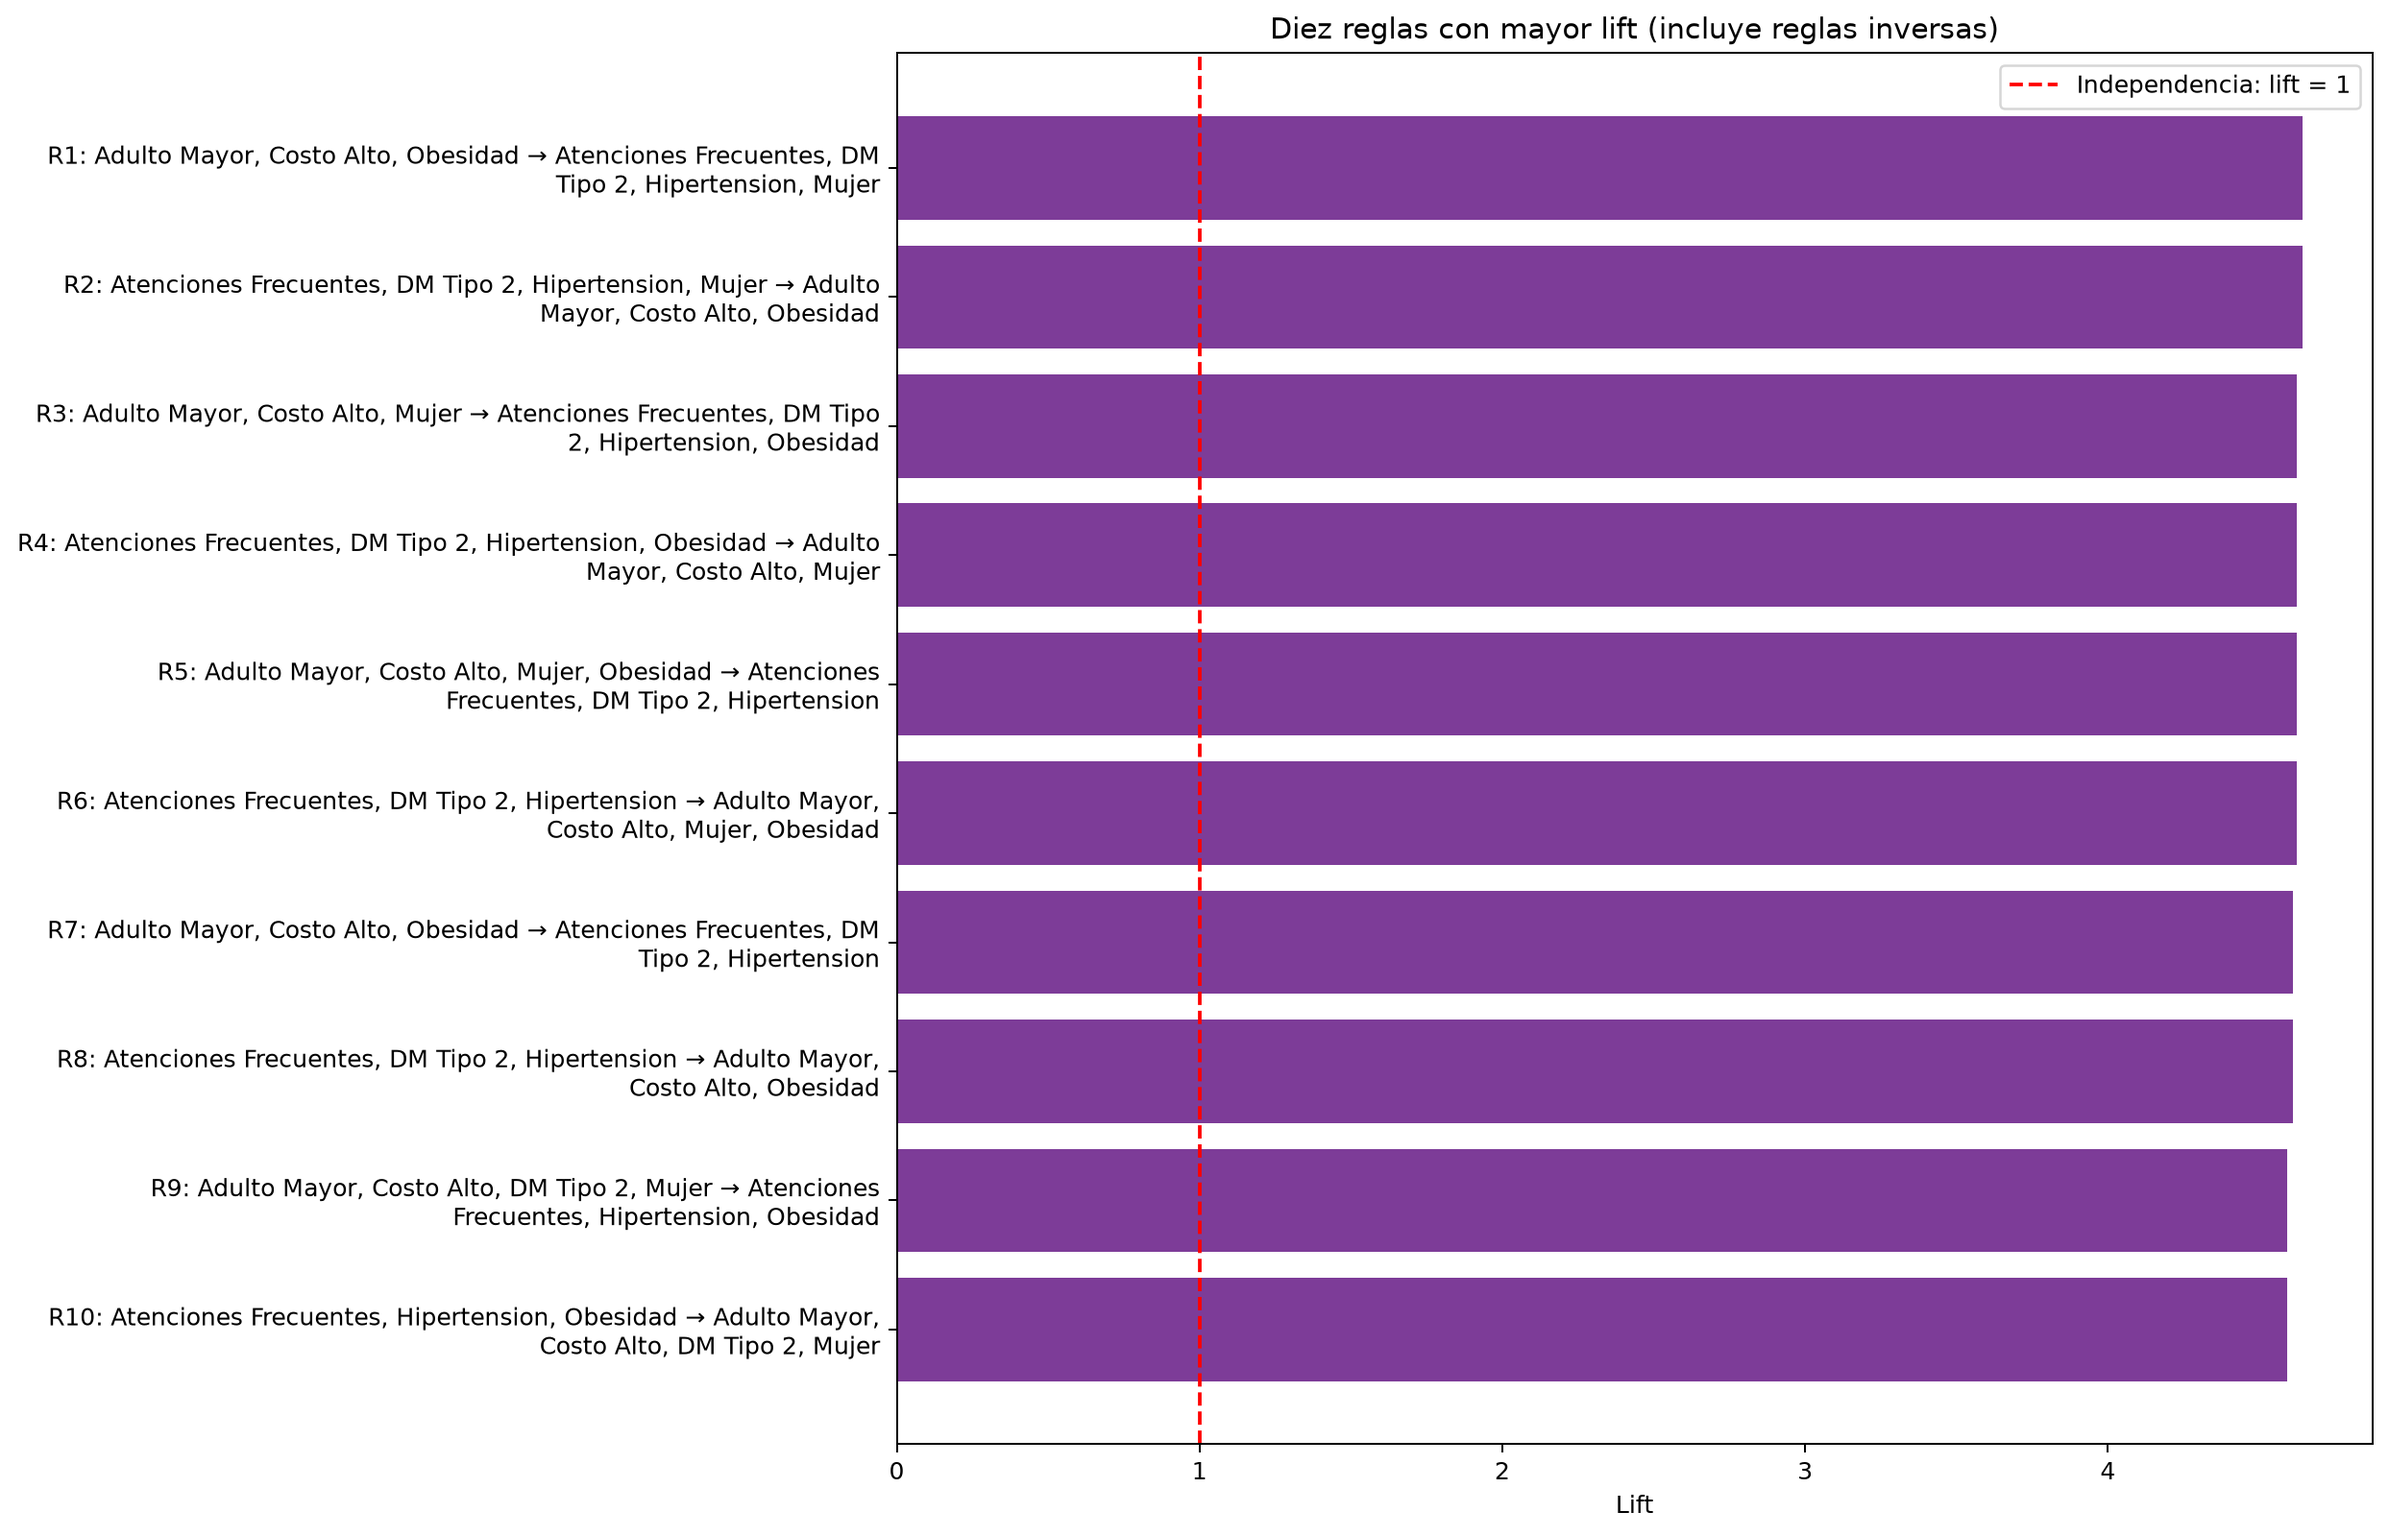
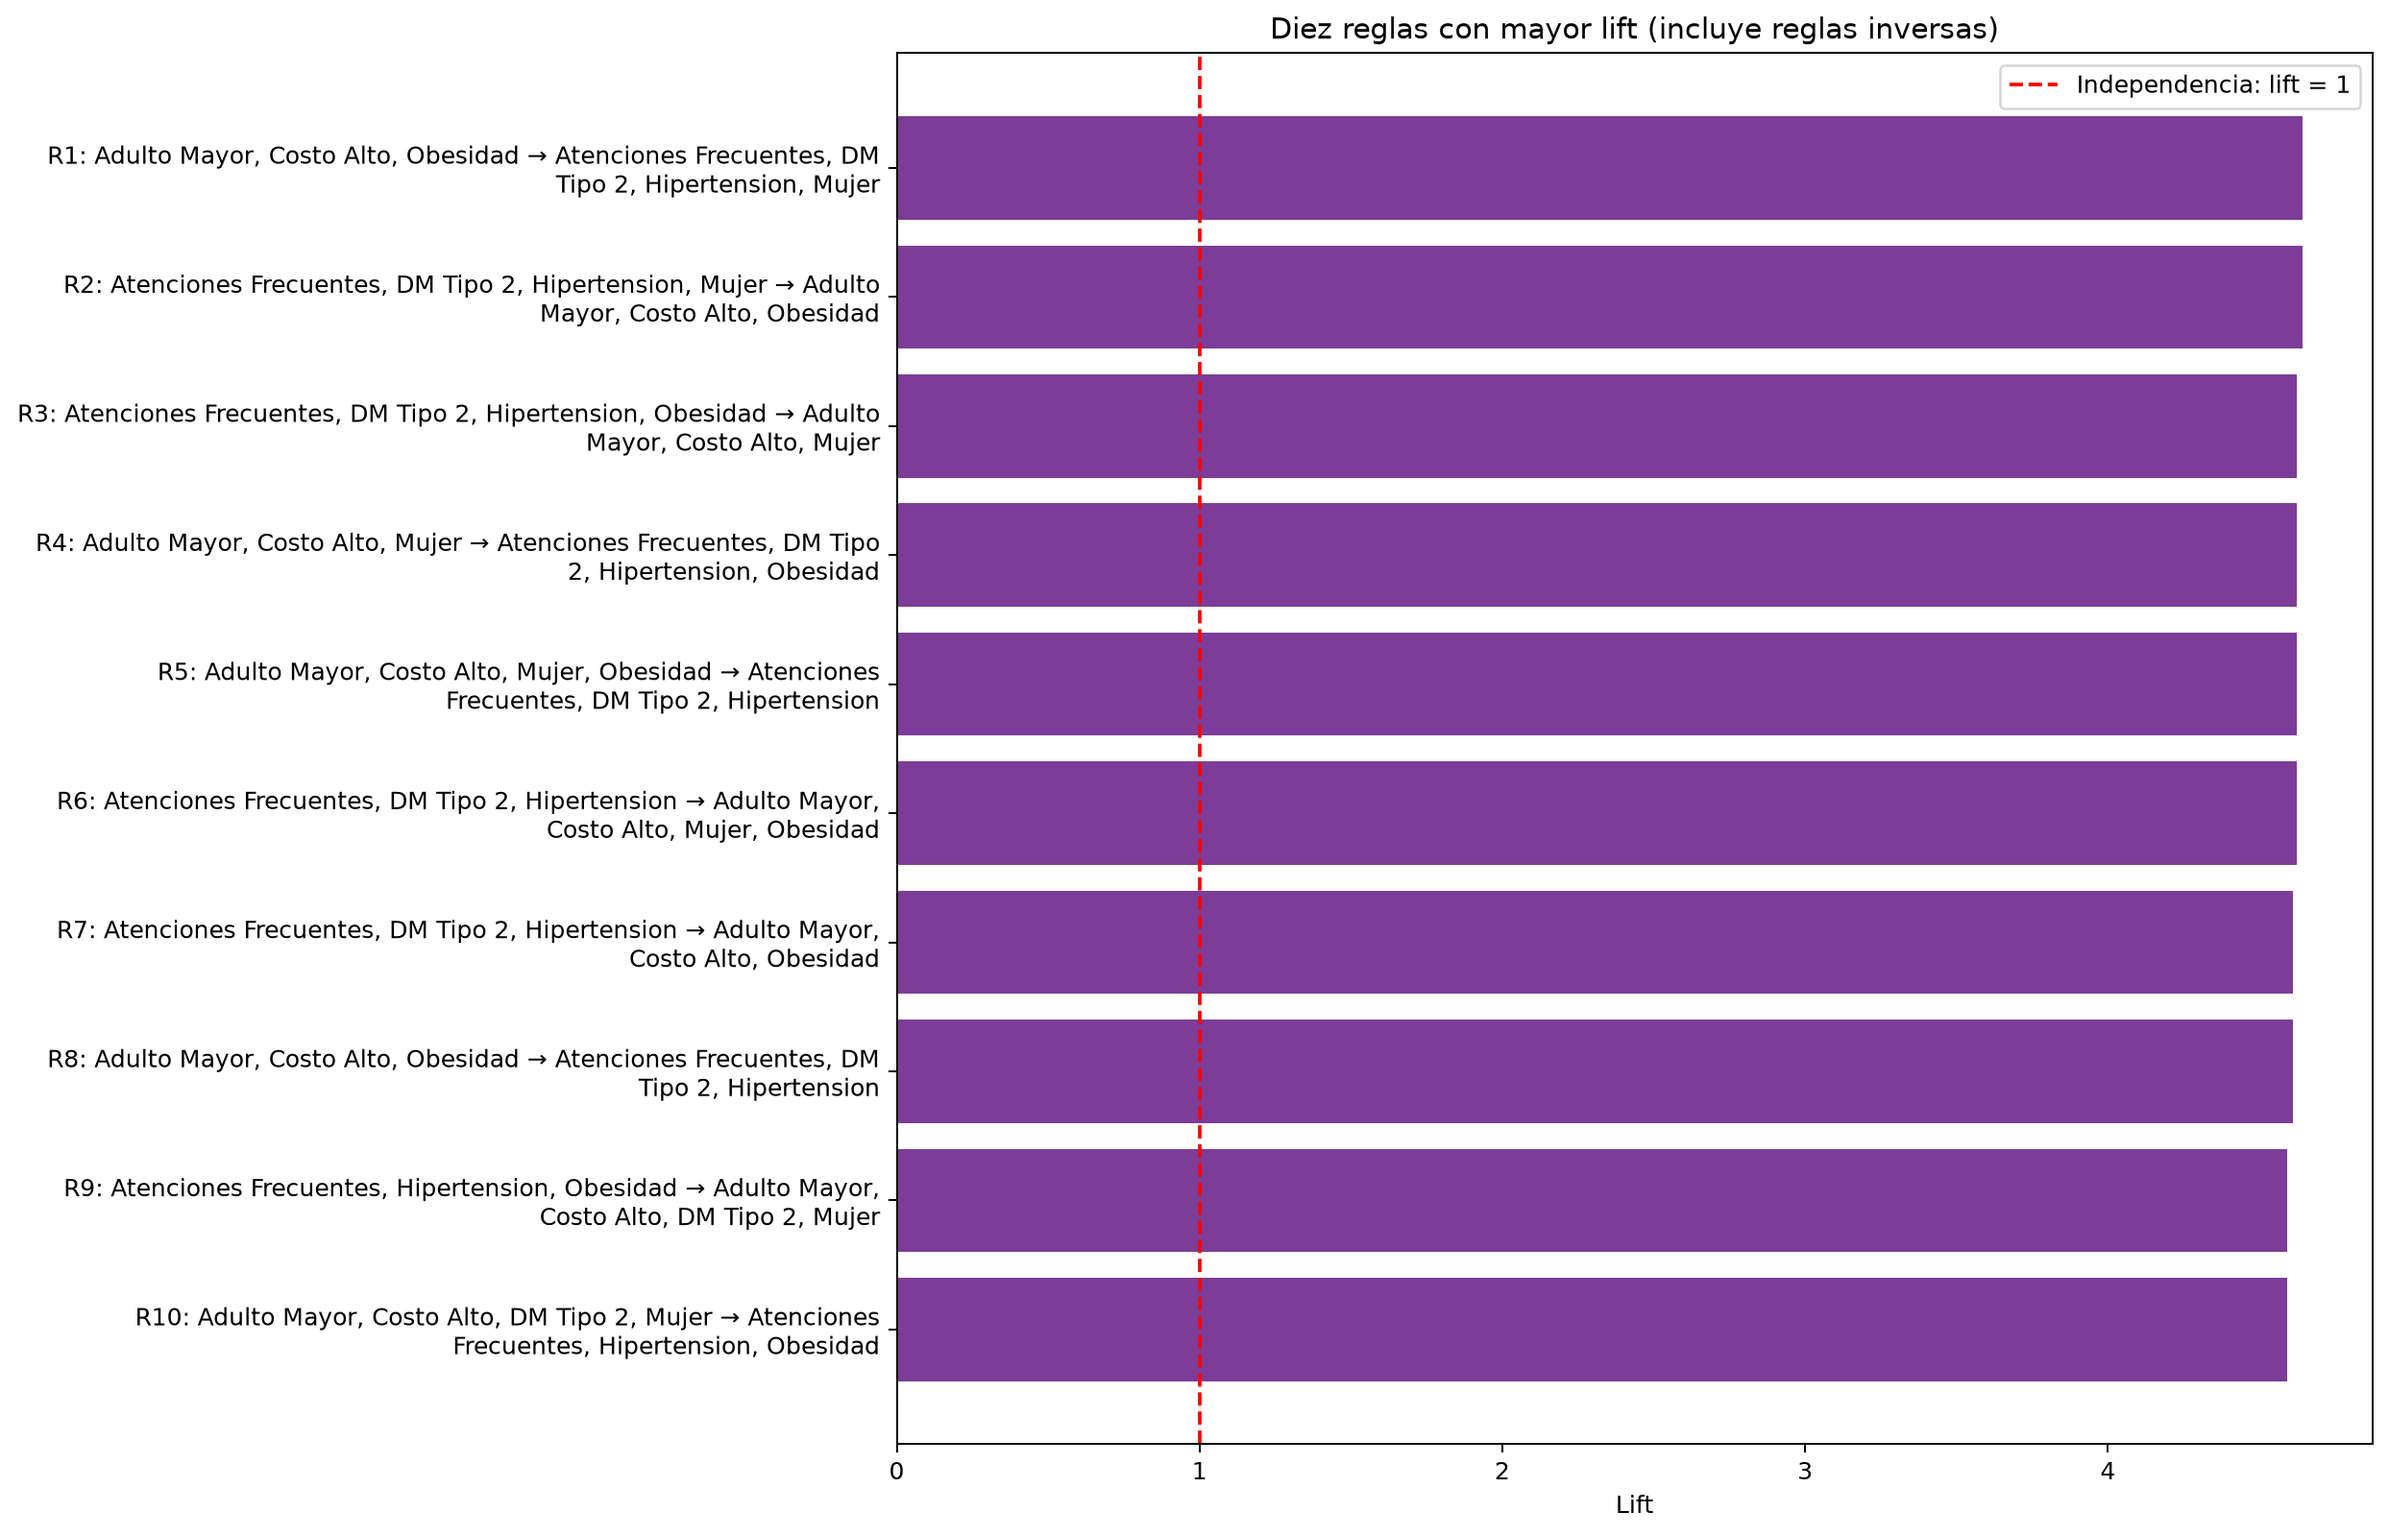
Comparte resumenes CSV y restaura ventanas de graficos

diff --git a/informe_mineria_datos.html b/informe_mineria_datos.html
@@ -225,6 +225,10 @@
 <p>Al excluir días de hospitalización y cantidad de atenciones, el R² baja a <strong>0.0178</strong> y el RMSE sube a <strong>124.14 soles</strong>. Esta configuración explica poco del gasto con los predictores disponibles antes de la atención; no demuestra que las comorbilidades carezcan de efecto clínico. Base, enriquecido y Ridge presentan resultados prácticamente iguales. La información INEI no aporta una mejora medible en esta comparación individual.</p>
 <p>El modelo logarítmico reconvertido obtiene R² = <strong>-8.1585</strong> y RMSE = <strong>379.08 soles</strong>. Su R² negativo indica que su error cuadrático supera el de predecir la media del conjunto evaluado; esta transformación no mejora los resultados en la escala monetaria. Los gráficos de predicciones, residuos y coeficientes se generan adicionalmente al ejecutar el pipeline completo, usando las predicciones reales, sin reconstruirlas a partir de métricas agregadas.</p>
 <!-- FIN ADICION REGRESION -->
+    <h3>8.2. Predicciones, residuos y coeficientes del modelo enriquecido</h3>
+    <figure><img src="salidas/regresion_predicciones_residuos.png" alt="Costos reales frente a predichos y residuos del modelo enriquecido" style="max-width:100%;height:auto;"><figcaption>Predicciones y residuos de hasta 5.000 casos seleccionados del conjunto de prueba. La diagonal representa predicción perfecta y la línea horizontal representa residuo cero.</figcaption></figure>
+    <figure><img src="salidas/regresion_coeficientes.png" alt="Diez coeficientes de mayor magnitud del modelo enriquecido" style="max-width:100%;height:auto;"><figcaption>Coeficientes estandarizados: asociación con el costo por una desviación estándar de cada predictor, manteniendo los demás constantes; no representan efectos causales.</figcaption></figure>
+
     <!-- 9. Acciones Inferidas en Base a los Resultados -->
     <h2 id="seccion9">9. Acciones Inferidas en Base a los Resultados</h2>
     <p>A partir del análisis holístico, se proponen las siguientes acciones o toma de decisiones:</p>

diff --git a/completo.py b/completo.py
@@ -32,11 +32,13 @@ from sklearn.pipeline import Pipeline
 from sklearn.metrics import mean_squared_error, r2_score, mean_absolute_error
 from mlxtend.frequent_patterns import apriori, association_rules
 from graficos_adicionales import graficar_regresion, graficar_asociacion
+import graficos_adicionales
 
 # Configuración global
 warnings.filterwarnings('ignore')
 RANDOM_STATE = 42
 MODO_PANTALLAZOS = True  # Cambiar a False si se desea ejecutar sin pausas interactivas
+graficos_adicionales.MOSTRAR_GRAFICOS = MODO_PANTALLAZOS
 N_MUESTRA_INICIAL = 650000  # Muestra inicial para garantizar >= 500.000 tras dedup y limpieza
 
 

diff --git a/graficos_adicionales.py b/graficos_adicionales.py
@@ -7,17 +7,18 @@ import ast
 import textwrap
 import numpy as np
 import pandas as pd
-import matplotlib
-matplotlib.use('Agg')
 import matplotlib.pyplot as plt
 
 SALIDAS = Path(__file__).resolve().parent / 'salidas'
+MOSTRAR_GRAFICOS = False
 
 
 def guardar(fig, nombre):
     SALIDAS.mkdir(exist_ok=True)
     fig.tight_layout()
     fig.savefig(SALIDAS / nombre, dpi=180, bbox_inches='tight')
+    if MOSTRAR_GRAFICOS:
+        plt.show()
     plt.close(fig)
 
 

diff --git a/readme.md b/readme.md
@@ -186,4 +186,49 @@ flowchart LR
 
 ## 👤 Autor
 
+## Resultados compartidos y ejecución en macOS
+
+Los cambios están en la rama `main`. Para actualizar una copia existente sin descartar cambios locales:
+
+```bash
+git fetch origin
+git switch main
+git pull --ff-only origin main
+```
+
+Si Git indica que hay cambios locales incompatibles, conservarlos antes de actualizar.
+Los cuatro CSV pequeños de `salidas/` se incluyen como excepción a la exclusión de datasets:
+`comparativa_modelos_regresion.csv`, `reglas_asociacion_top_lift.csv`,
+`estadisticos_descriptivos.csv` y `resumen_inferencia_acciones.csv`.
+La comparación contiene cinco filas de métricas de modelos, no registros de pacientes.
+`VALOR_NETO` es la variable de costo utilizada como objetivo; sus estadísticos agregados
+aparecen en `estadisticos_descriptivos.csv`.
+
+La ejecución documentada selecciona 650.000 registros y conserva 570.437 tras la limpieza.
+Estos registros procesados permanecen en memoria: el script no exporta el dataset limpio.
+El CSV maestro debe obtenerse por separado y permanecer en la carpeta del proyecto;
+los datasets grandes siguen excluidos de Git. Los CSV de resumen y las imágenes
+permiten consultar los resultados sin volver a procesar el maestro.
+
+En macOS, con el entorno virtual de cada equipo activado:
+
+```bash
+source .venv/bin/activate
+python completo.py
+```
+
+Con `MODO_PANTALLAZOS = True`, los gráficos se guardan y se abren mediante el backend
+gráfico disponible de Matplotlib. Cerrar cada ventana permite continuar y las pausas
+de consola requieren Enter. Una sesión sin interfaz gráfica solo podrá guardar imágenes.
+Para regenerar los cinco gráficos de resumen desde los CSV existentes:
+
+```bash
+python graficos_adicionales.py
+```
+
+Este último comando solo guarda archivos PNG; abrir `informe_mineria_datos.html` para verlos.
+Las novedades del informe están en 7.1, 8.1 y en la interpretación complementaria de la sección 10.
+Los diagnósticos de regresión (predicciones, residuos y coeficientes) se generan al ejecutar
+`completo.py` y están disponibles como PNG en `salidas/`.
+
 Desarrollado por [OutFerz](https://github.com/OutFerz).
